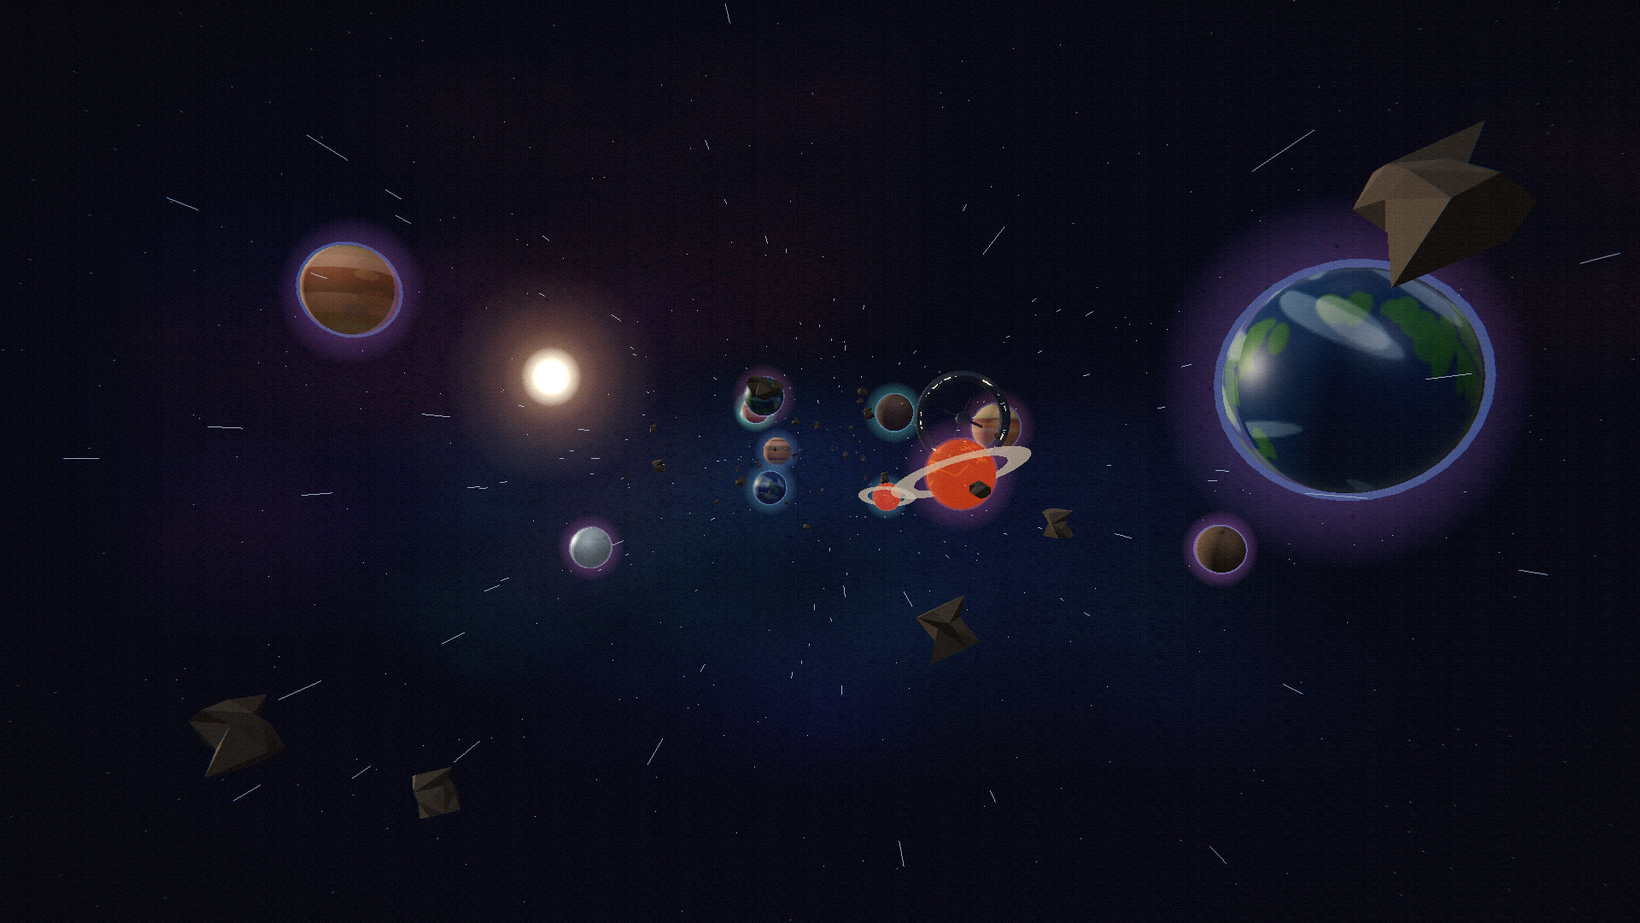
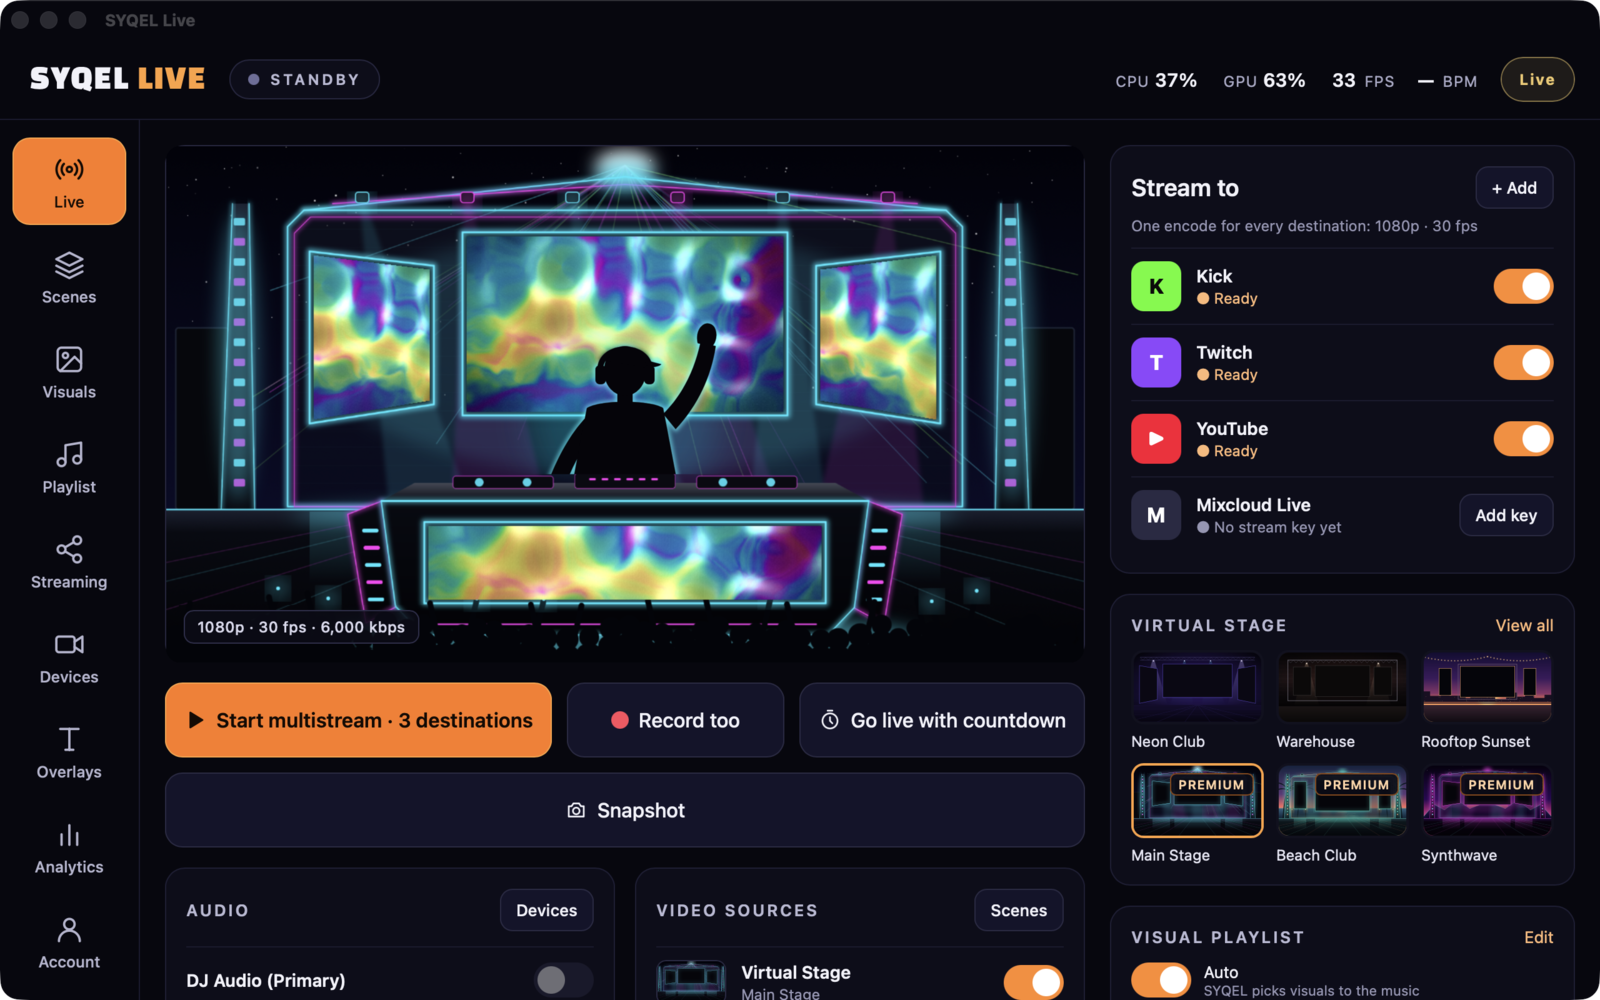
New hero image: the SYQEL Live app, streaming a DJ on the Main Stage

diff --git a/README.md b/README.md
@@ -1,5 +1,5 @@
 <p align="center">
-  <img src=".github/hero.png" alt="SYQEL Live — a DJ on a virtual stage surrounded by music-reactive visuals" width="820" />
+  <img src=".github/hero.png" alt="SYQEL Live — the Live screen: a DJ on a virtual stage with music-reactive visuals, multistreaming to Kick, Twitch and YouTube" width="820" />
 </p>
 
 <h1 align="center">SYQEL Live</h1>
